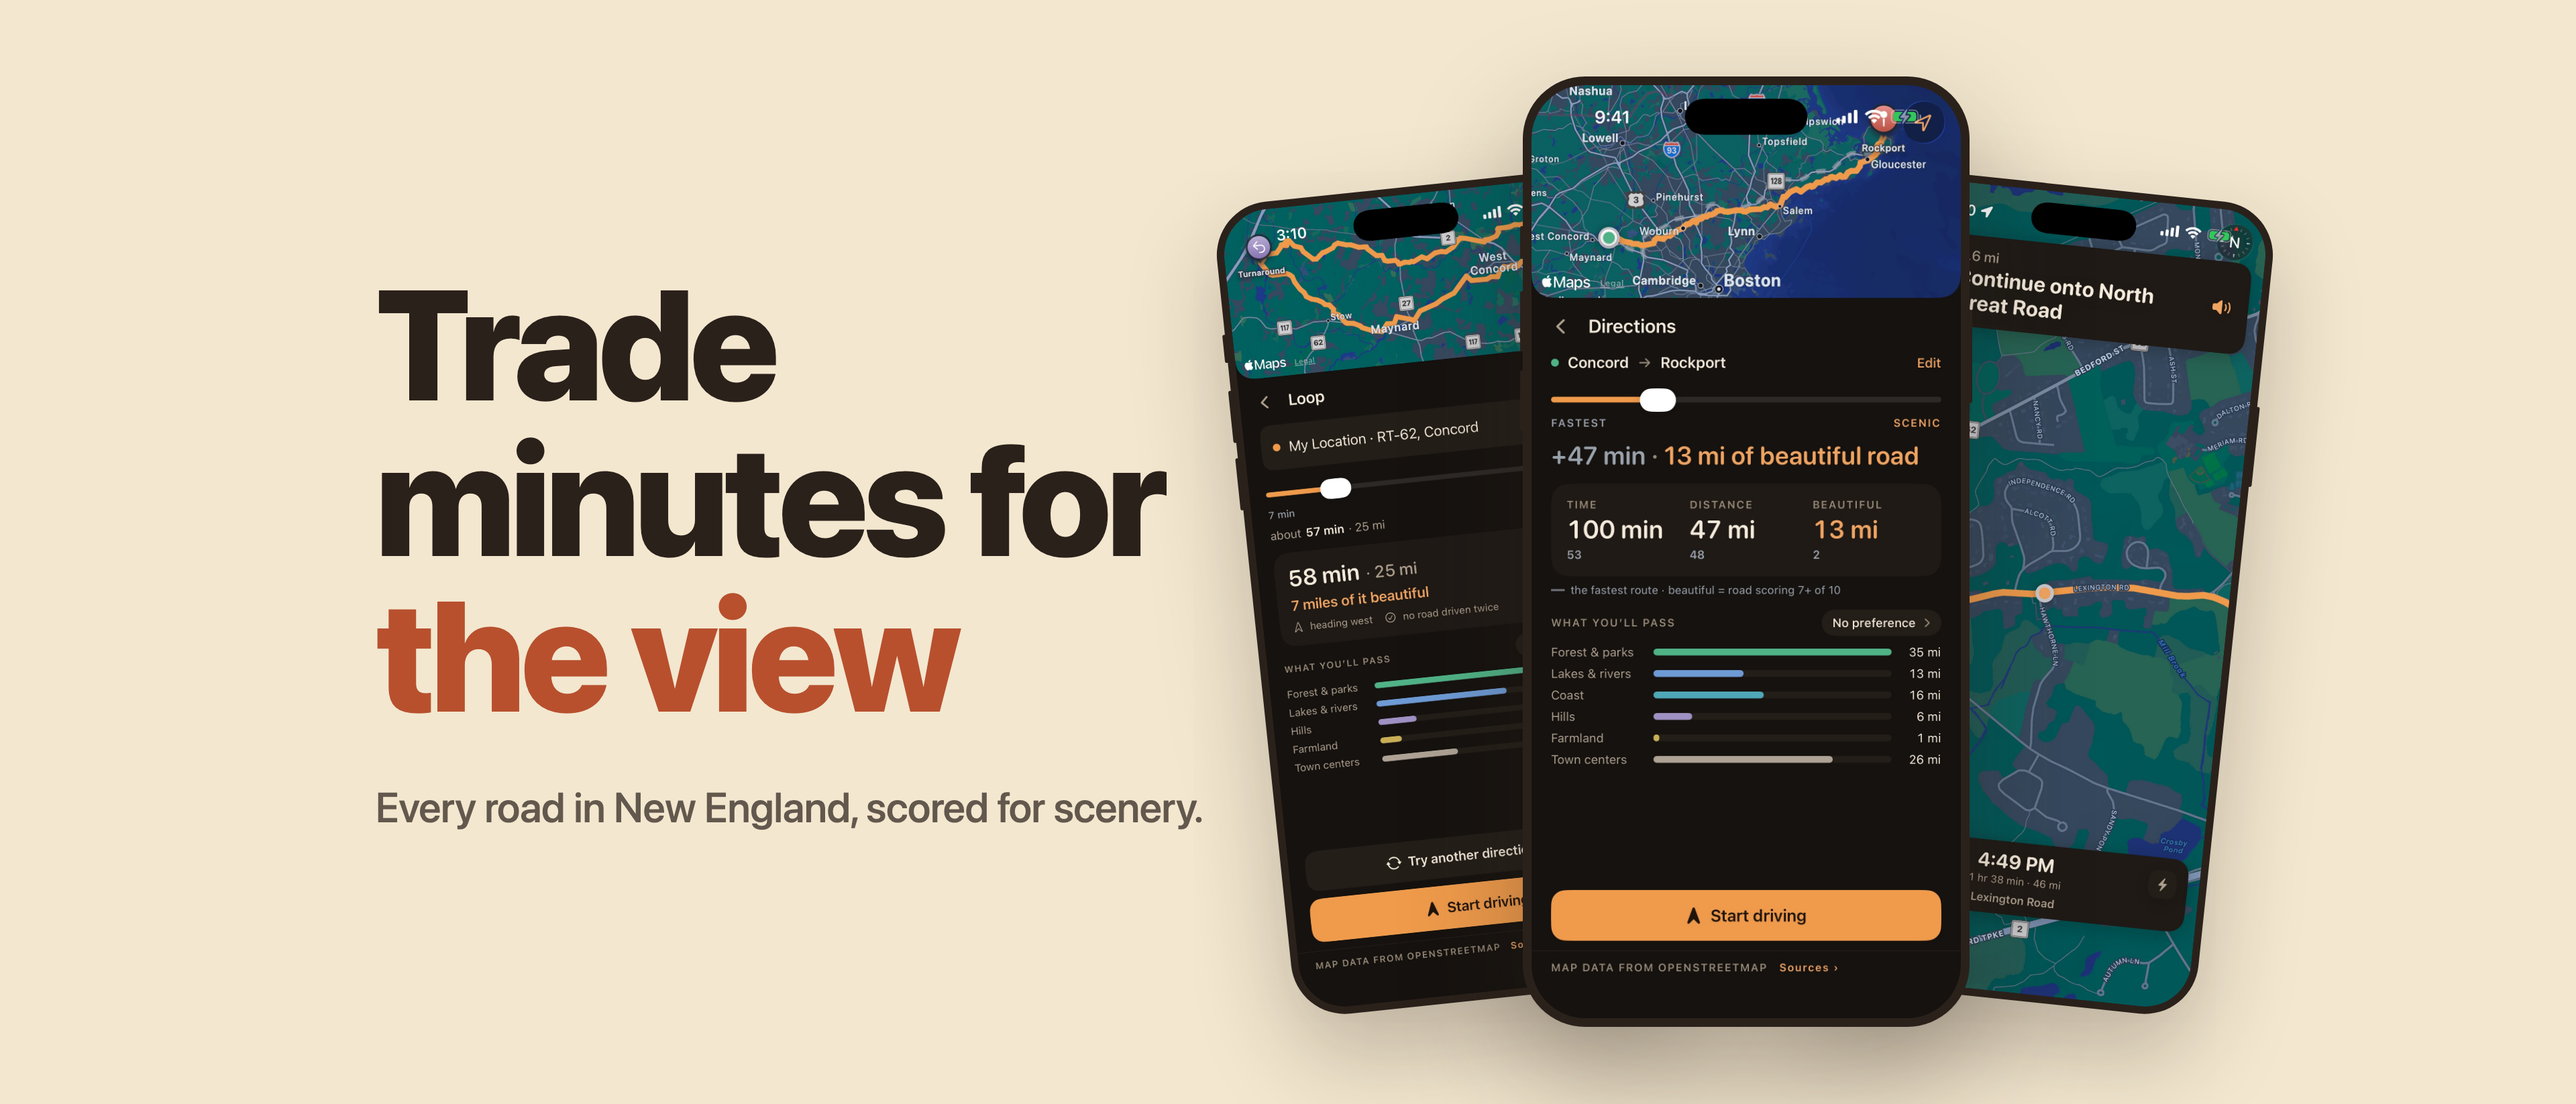
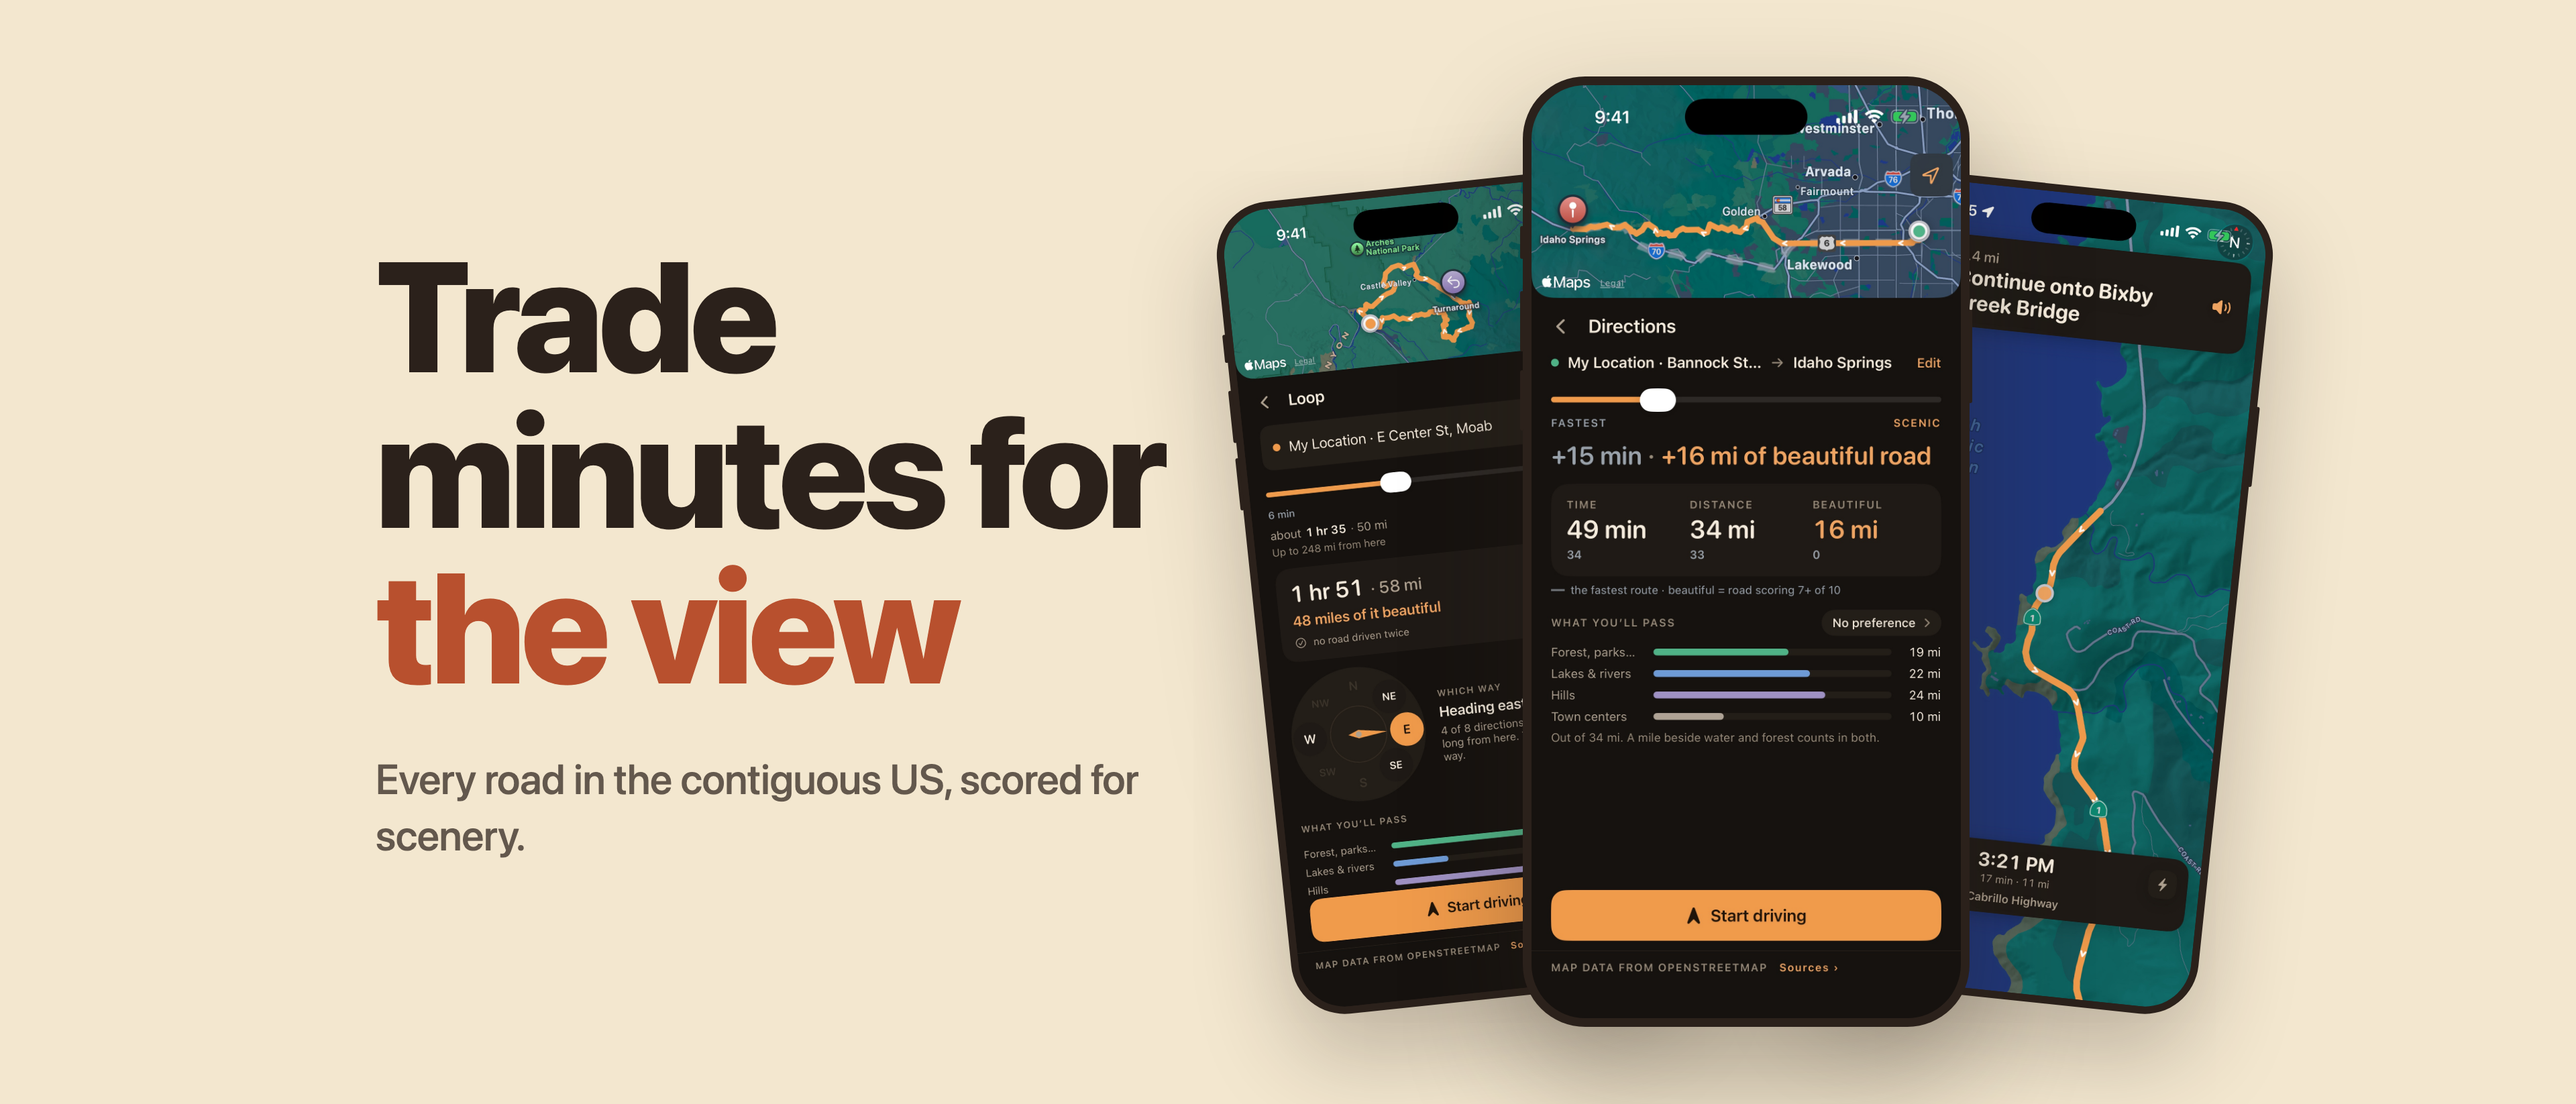
Retake the App Store screenshots in four states outside New England
Denver to Idaho Springs (+15 min, 0 to 16 mi), a Moab loop (48 of 58 mi
beautiful), Highway 1 at Bixby Creek, and the tuning sheet on Asheville to
Blowing Rock, replacing the half-empty home shot. Captions are national and
each shot names its place.

diff --git a/app-store-screenshots/build.py b/app-store-screenshots/build.py
@@ -52,29 +52,36 @@ SUBTITLE = "The scenic route, on purpose"
 PAPER = "#FFF8EC"
 ROUTE = "#F2A25A"
 
-# (raw capture, headline with the accent in *stars*, the line under it, and
-# optionally a photo behind it: (file in photos/, CSS object-position)).
-# The photos are the owner's own, from drives on 2026-10-06, re-encoded with
-# no metadata at all, because a phone photo's EXIF carries where it was taken.
-# Claims follow docs/app-store-listing.md: the trade is against the app's own
-# fastest route, "best-scoring" not "most beautiful", and New England is said
-# in the first frame because only the first three show in search. The accent
-# always takes the second line, so the three headers line up side by side.
+# (raw capture, headline with the accent in *stars*, the line under it, the
+# place the capture shows, and optionally a photo behind it: (file in photos/,
+# CSS object-position)). The photos are the owner's own, from drives on
+# 2026-10-06, re-encoded with no metadata at all, because a phone photo's EXIF
+# carries where it was taken. They are New England roads behind the
+# headline, decoration and not a claim: the place line under each phone says
+# where the capture is. Claims follow docs/app-store-listing.md: the trade is
+# against the app's own fastest route, nothing is "best", and the coverage is
+# said in the first frame because only the first three show in search. The
+# accent always takes the second line, so the three headers line up side by
+# side. The captures and their figures are in docs/national-copy.md §6.
 SHOTS = [
     ("1-route-comparison.jpg",
      "Trade minutes for *the view*",
-     "Every road in New England is scored for scenery. One slider sets what the view is worth to you.",
+     "Every road in the contiguous US, scored for scenery on one scale. One slider sets what the view is worth.",
+     "Denver to Idaho Springs, Colorado",
      ("french-king-gorge.jpg", "50% 50%")),  # the Connecticut River from Route 2
     ("2-loop.jpg",
      "Nowhere to be? *Take a loop.*",
-     "Pick how long you have. It plans a round trip over the best-scoring roads nearby, and brings you home."),
+     "Pick how long you have. It plans a round trip over roads it scores well, and brings you home.",
+     "A loop from Moab, Utah"),
     ("3-driving.jpg",
      "Every turn, *out loud*",
      "Spoken directions, the next turn always on screen, and a new route if you miss one.",
+     "Highway 1, Big Sur, California",
      ("gravel-road.jpg", "50% 50%")),  # cropped to the road: no dashboard, no roof edge
-    ("4-home.jpg",
-     "Somewhere, or *nowhere at all*",
-     "Search for a destination, or loop from where you are. Free, with no account and no ads."),
+    ("4-tune.jpg",
+     "More of what *you like*",
+     "Drag toward what you'd rather drive past. Routes update in the background as you drag.",
+     "Asheville to Blowing Rock, North Carolina"),
 ]
 
 
@@ -108,7 +115,7 @@ def phone_html(src, screen_w, left, top, style=""):
             f'<img src="{src.as_uri()}" style="height:{screen_h}px;border-radius:{radius}px"></div>')
 
 
-def screenshot_page(raw, headline, sub, photo=None):
+def screenshot_page(raw, headline, sub, place, photo=None):
     # The whole phone fits under the header, 110 px clear of the foot. With a
     # photo, it fills the page and an ink wash behind the header keeps the
     # type readable against sky.
@@ -131,12 +138,15 @@ body{{font-family:-apple-system,"SF Pro Display",system-ui,sans-serif;color:{hea
 h1{{margin:0;font-size:128px;line-height:1.02;font-weight:800;letter-spacing:-0.025em}}
 h1 em{{font-style:normal;color:{accent};display:block}}
 p{{margin:34px 0 0;font-size:50px;line-height:1.3;font-weight:500;color:{sub_color};letter-spacing:-0.005em}}
+.place{{position:absolute;left:0;right:0;bottom:0;height:{foot}px;display:flex;align-items:center;justify-content:center;
+  font-size:36px;font-weight:600;color:{sub_color};z-index:2;{"text-shadow:0 2px 12px rgba(20,14,10,.6)" if photo else ""}}}
 {phone_css()}
 .phone{{z-index:1}}
 </style></head><body>
 {backdrop}
 <div class="head"><h1>{headline_html(headline)}</h1><p>{html.escape(sub)}</p></div>
 {phone_html(HERE / raw, screen_w, left, top)}
+<div class="place">{html.escape(place)}</div>
 </body></html>"""
 
 
@@ -179,7 +189,7 @@ p b{{color:{INK};font-weight:700}}
 # pricing ("Free"), URLs and other platforms, and the store already shows the
 # icon, name and subtitle beside them, so these lead with the headline.
 STORE_COPY = (f'<h1>Trade minutes for <em>the view</em></h1>'
-              f'<p>Every road in New England, scored for scenery.</p>')
+              f'<p>Every road in the contiguous US, scored for scenery.</p>')
 
 # (file, width, height, copy, front phone, side phones, phones' centre x,
 #  text left, text width, type scale). Focal content stays inside the middle
@@ -189,7 +199,7 @@ PROMOS = [
     # Social and landing page; not an App Store asset, so it may say "Free".
     ("header-banner.jpg", 2400, 1200,
      f'<img src="{ICON.as_uri()}"><h1>{NAME}</h1><h2>{SUBTITLE}</h2>'
-     f'<p>Every road in New England, scored for scenery.<br><b>Free on iPhone.</b> No account, no ads.</p>',
+     f'<p>Every road in the contiguous US, scored for scenery.<br><b>Free on iPhone.</b> No account, no ads.</p>',
      500, 430, 1750, 150, 900, 1.0),
     # App Store Connect, Header: 21:9 at 3840 x 1646.
     ("app-store-header-3840x1646.png", 3840, 1646, STORE_COPY,
@@ -289,9 +299,9 @@ def _chrome(profile, src, out_png, width, height, scale):
 def main():
     OUT.mkdir(exist_ok=True)
     finished = []
-    for raw, headline, sub, *photo in SHOTS:
+    for raw, headline, sub, place, *photo in SHOTS:
         png = OUT / (pathlib.Path(raw).stem + ".png")
-        render(screenshot_page(raw, headline, sub, *photo), png, W, H)
+        render(screenshot_page(raw, headline, sub, place, *photo), png, W, H)
         jpg = png.with_suffix(".jpg")
         subprocess.run(["sips", "-s", "format", "jpeg", "-s", "formatOptions", "92",
                         str(png), "--out", str(jpg)], check=True, capture_output=True)
